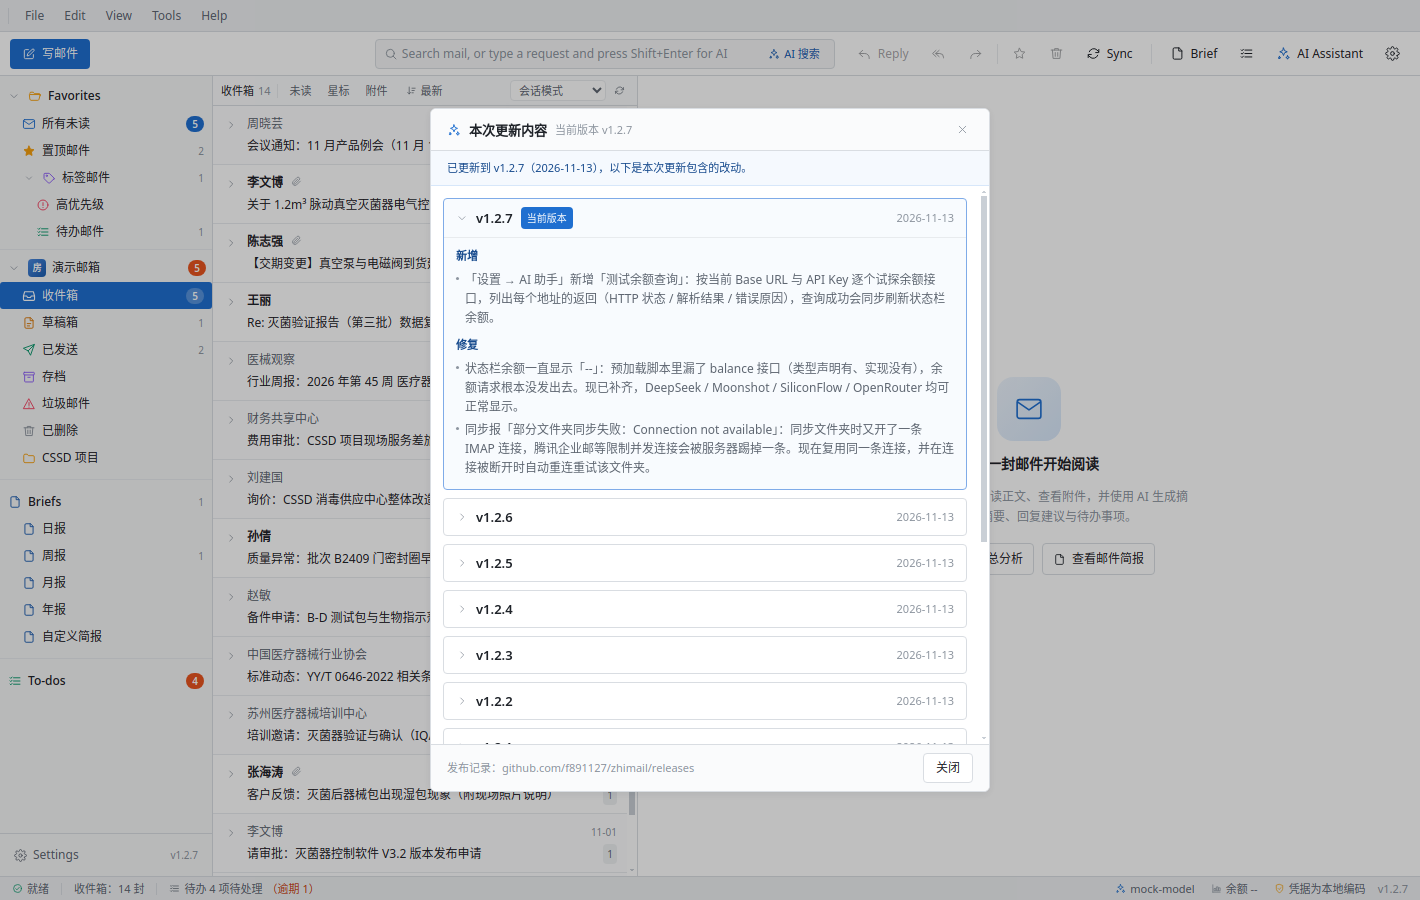
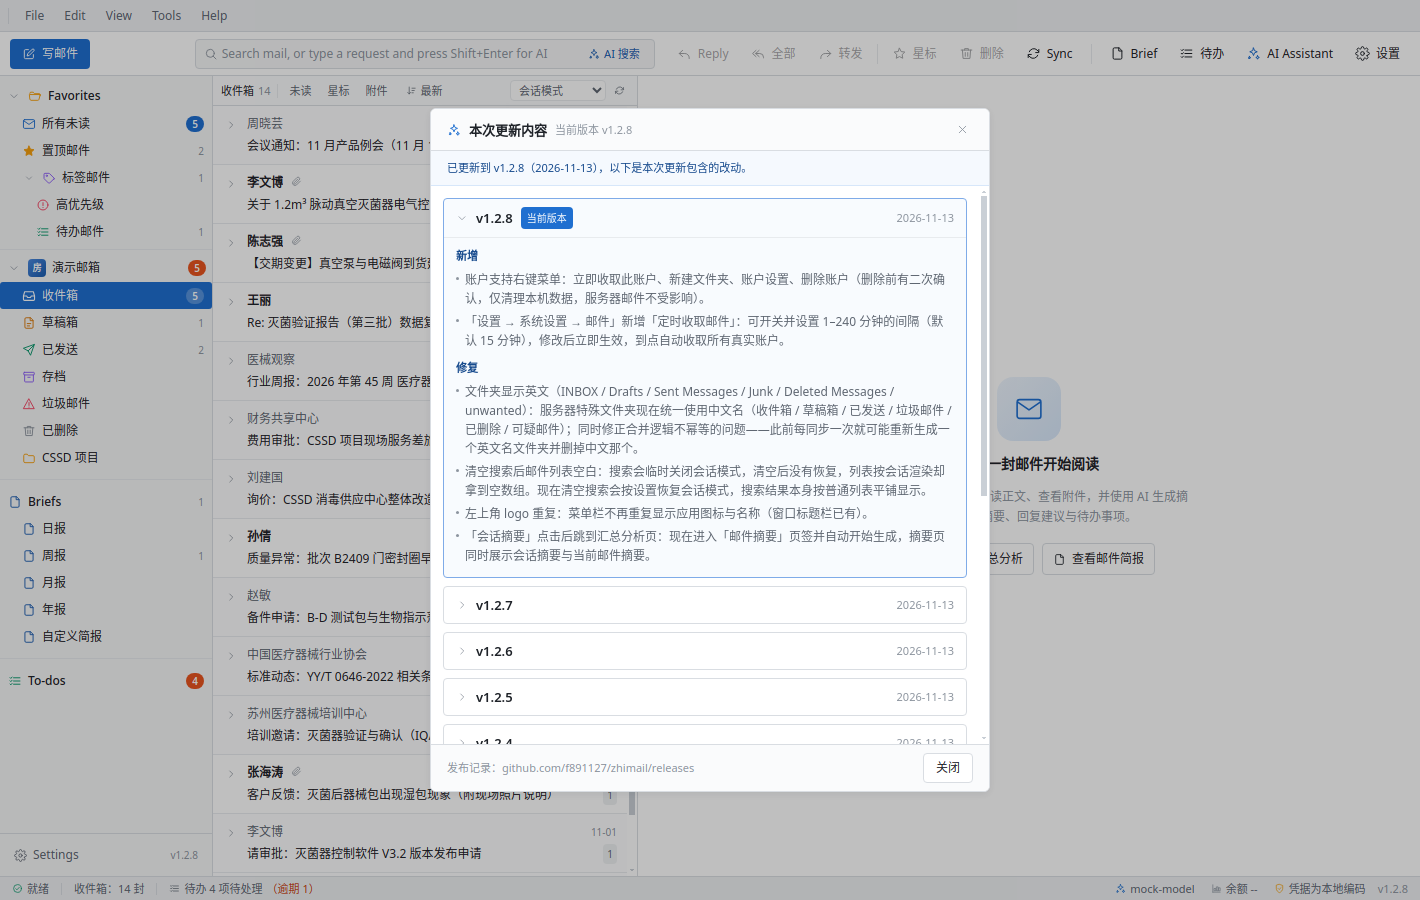
feat(v1.2.9): 工具栏全部显示中文文字；检查更新在无新版本时提示已是最新而非连接错误

diff --git a/src/layout/ToolBar.tsx b/src/layout/ToolBar.tsx
@@ -90,25 +90,27 @@ export function ToolBar() {
           title="回复 (Ctrl+R)"
         >
           <Icon name="reply" size={15} />
-          <span className="hidden xl:inline">{tt('回复')}</span>
+          <span>{tt('回复')}</span>
         </button>
         <button
           type="button"
           className="tool-btn"
           disabled={!selectedMessageId}
           onClick={() => replyToMessage('replyAll')}
-          title="全部回复"
+          title="全部回复 (Ctrl+Shift+R)"
         >
           <Icon name="reply-all" size={15} />
+          <span>全部</span>
         </button>
         <button
           type="button"
           className="tool-btn"
           disabled={!selectedMessageId}
           onClick={() => replyToMessage('forward')}
-          title="转发"
+          title="转发 (Ctrl+F)"
         >
           <Icon name="forward" size={15} />
+          <span>转发</span>
         </button>
         <div className="mx-0.5 h-5 w-px bg-shell-lineSoft" />
         <button
@@ -116,9 +118,10 @@ export function ToolBar() {
           className={`tool-btn ${flagged ? 'text-accent-500' : ''}`}
           disabled={!selectedMessageId}
           onClick={() => selectedMessageId && void toggleFlag([selectedMessageId], '\\Flagged', !flagged)}
-          title="星标"
+          title="加星标 / 取消星标"
         >
           <Icon name={flagged ? 'star-filled' : 'star'} size={15} />
+          <span>{flagged ? '已星标' : '星标'}</span>
         </button>
         <button
           type="button"
@@ -128,6 +131,7 @@ export function ToolBar() {
           title="删除 (Delete)"
         >
           <Icon name="trash" size={15} />
+          <span>删除</span>
         </button>
         <button
           type="button"
@@ -136,7 +140,7 @@ export function ToolBar() {
           title={realAccount ? '同步邮箱' : '演示邮箱无需同步'}
         >
           <Icon name="refresh" size={15} />
-          <span className="hidden xl:inline">{tt('同步')}</span>
+          <span>{tt('同步')}</span>
         </button>
       </div>
 
@@ -151,7 +155,7 @@ export function ToolBar() {
           title="邮件简报"
         >
           <Icon name="document" size={15} />
-          <span className="hidden xl:inline">{tt('简报')}</span>
+          <span>{tt('简报')}</span>
         </button>
         <button
           type="button"
@@ -160,6 +164,7 @@ export function ToolBar() {
           title="待办事项"
         >
           <Icon name="checklist" size={15} />
+          <span>待办</span>
         </button>
         <button
           type="button"
@@ -168,10 +173,11 @@ export function ToolBar() {
           title="AI 助手 (Ctrl+Shift+A)"
         >
           <Icon name="sparkles" size={15} className={aiBusy ? 'animate-pulse-soft text-brand-500' : 'text-brand-500'} />
-          <span className="hidden xl:inline">{tt('AI 助手')}</span>
+          <span>{tt('AI 助手')}</span>
         </button>
         <button type="button" className="tool-btn" onClick={() => openSettings('ai')} title="设置">
           <Icon name="settings" size={15} />
+          <span>设置</span>
         </button>
       </div>
     </div>

diff --git a/electron/services/updater.ts b/electron/services/updater.ts
@@ -156,12 +156,18 @@ export function initUpdater(): void {
   );
   autoUpdater.on('error', (error) => {
     const raw = String(error?.message ?? error);
-    const networkIssue = /ERR_CONNECTION|ETIMEDOUT|ENOTFOUND|ECONNRESET|timeout|socket hang up/i.test(raw);
+    const kind = classifyUpdateError(raw);
+    if (kind === 'not-found') {
+      // 上游没有比当前版本更新的发布（或清单缺失），按「已是最新版本」提示，不再报连接错误
+      setState({ phase: 'not-available', error: undefined });
+      return;
+    }
     setState({
       phase: 'error',
-      error: networkIssue
-        ? `无法连接更新服务器（${raw.slice(0, 120)}）。常见原因是网络无法直连 GitHub，可在下方把更新源切换为镜像地址后重试。`
-        : raw.slice(0, 400),
+      error:
+        kind === 'network'
+          ? `无法连接更新服务器（${raw.slice(0, 120)}）。常见原因是网络无法直连 GitHub，可在下方把更新源切换为镜像地址后重试。`
+          : raw.slice(0, 400),
     });
   });
 
@@ -171,6 +177,19 @@ export function initUpdater(): void {
       void checkForUpdates().catch(() => undefined);
     }, 8000);
   }
+}
+
+
+/** 把 electron-updater 的报错分类：网络不通 / 没有可用的更新包 / 其他 */
+function classifyUpdateError(raw: string): 'network' | 'not-found' | 'other' {
+  if (/ERR_CONNECTION|ETIMEDOUT|ENOTFOUND|ECONNRESET|EAI_AGAIN|timeout|socket hang up|net::ERR_INTERNET/i.test(raw)) {
+    return 'network';
+  }
+  // 没有新版本、渠道不存在、latest.yml 404 等情况都表示「当前已是最新」
+  if (/404|not found|cannot find|no published versions|ERR_HTTP_RESPONSE_CODE_FAILURE|latest\.yml/i.test(raw)) {
+    return 'not-found';
+  }
+  return 'other';
 }
 
 export async function checkForUpdates(): Promise<UpdateState> {
@@ -187,12 +206,17 @@ export async function checkForUpdates(): Promise<UpdateState> {
     await autoUpdater.checkForUpdates();
   } catch (error) {
     const raw = String((error as Error).message);
-    const networkIssue = /ERR_CONNECTION|ETIMEDOUT|ENOTFOUND|ECONNRESET|timeout|socket hang up/i.test(raw);
+    const kind = classifyUpdateError(raw);
+    if (kind === 'not-found') {
+      setState({ phase: 'not-available', error: undefined });
+      return state;
+    }
     setState({
       phase: 'error',
-      error: networkIssue
-        ? `无法连接更新服务器（${raw.slice(0, 120)}）。常见原因是网络无法直连 GitHub，可在下方把更新源切换为镜像地址后重试。`
-        : raw.slice(0, 400),
+      error:
+        kind === 'network'
+          ? `无法连接更新服务器（${raw.slice(0, 120)}）。常见原因是网络无法直连 GitHub，可在下方把更新源切换为镜像地址后重试。`
+          : raw.slice(0, 400),
     });
   }
   return state;

diff --git a/CHANGELOG.md b/CHANGELOG.md
@@ -1,3 +1,8 @@
+## [1.2.9] - 2026-11-13
+### 优化
+- 工具栏所有按钮都带中文文字说明（全部回复 / 转发 / 星标 / 删除 / 同步 / 简报 / 待办 / AI 助手 / 设置），不再只有图标。
+### 修复
+- 「检查更新」在没有新版本时提示连接错误：现在会把「404 / 找不到 latest.yml / 没有可用发布」识别为「已是最新版本」；真正的网络不通（DNS、超时、连接被拒）仍会提示切换镜像源。
 ## [1.2.8] - 2026-11-13
 ### 新增
 - 账户支持右键菜单：立即收取此账户、新建文件夹、账户设置、删除账户（删除前有二次确认，仅清理本机数据，服务器邮件不受影响）。
